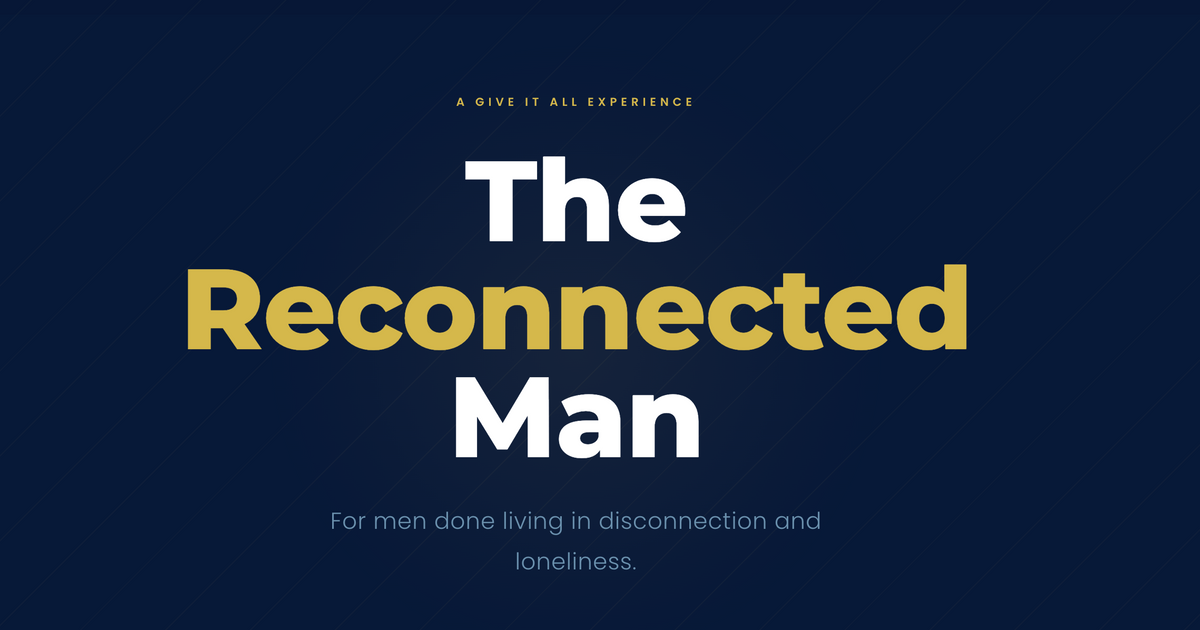
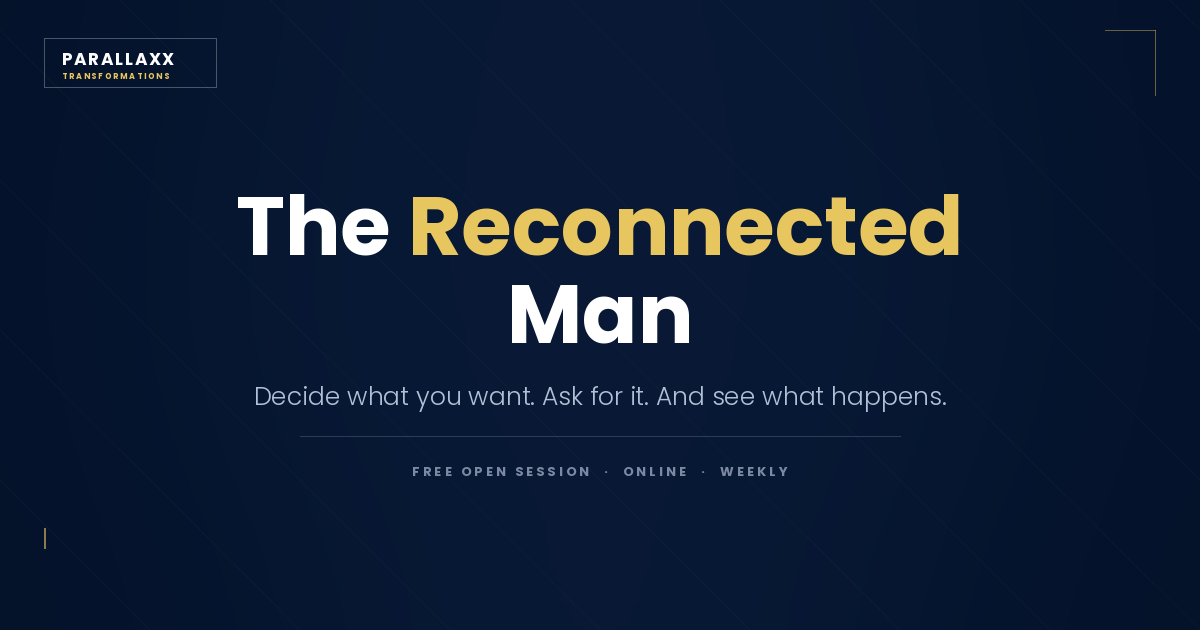
Reconnected Man share text and card, on the current page
The route still described the page it replaced. It priced the membership
at 59 euro when the page says 89, and sold weekly group containers and
deep love, true intimacy, none of which are words the page uses. Both
lines are the page's own now: the promise band and the offer for desc,
the hero sub and the VSL line for og_desc. Same method the woman's route
already uses.

The card carried A GIVE IT ALL EXPERIENCE over For men done living in
disconnection and loneliness: a badge for a brand being wound down, over
a promise the page replaced. Rebuilt from the same script as the other
door so the two read as a pair.

Also corrects a comment in the structured-data notes that still cited
59 euro a month as the figure on the page.

Claude-Session: https://claude.ai/code/session_01CvKZ3DdN5tJBLiZxtaNXuo

diff --git a/og_card_man.py b/og_card_man.py
@@ -1,0 +1,86 @@
+"""Rebuild the Reconnected Man share card on the v10 copy.
+
+The card still carried "A GIVE IT ALL EXPERIENCE" over "For men done living
+in disconnection and loneliness" — a badge for a brand being wound down, over
+a promise the page replaced. Same layout and type as the other door, so the
+two cards read as a pair, with this page's own words.
+"""
+from PIL import Image, ImageDraw, ImageFont, ImageFilter
+import math
+
+W, H = 1200, 630
+NAVY   = (4, 18, 42)
+CARD   = (10, 29, 60)
+GOLD   = (232, 198, 95)
+CREAM  = (255, 255, 255)
+MIST   = (177, 191, 215)
+SLATE  = (124, 137, 163)
+
+F = "/usr/share/fonts/truetype/google-fonts/Poppins-%s.ttf"
+def f(style, size): return ImageFont.truetype(F % style, size)
+
+# ── ground: navy with a soft lift behind the type ────────────────────────
+img = Image.new("RGB", (W, H), NAVY)
+glow = Image.new("L", (W, H), 0)
+gd = ImageDraw.Draw(glow)
+gd.ellipse((W*0.14, -H*0.30, W*0.86, H*1.16), fill=150)
+glow = glow.filter(ImageFilter.GaussianBlur(120))
+img = Image.composite(Image.new("RGB", (W, H), CARD), img, glow)
+
+d = ImageDraw.Draw(img, "RGBA")
+
+# faint diagonal streaks, as on the original
+for x in range(-H, W + H, 150):
+    d.line([(x, 0), (x + H, H)], fill=(255, 255, 255, 7), width=1)
+
+# corner marks
+d.line([(1105, 30), (1155, 30)], fill=(GOLD + (110,)), width=1)
+d.line([(1155, 30), (1155, 95)], fill=(GOLD + (110,)), width=1)
+d.line([(44, 528), (44, 548)], fill=(GOLD + (150,)), width=2)
+
+def track(draw, xy, text, font, fill, sp=0.0, anchor_centre=False):
+    """Letter-spaced text. PIL has no tracking, so step glyph by glyph."""
+    widths = [draw.textlength(c, font=font) for c in text]
+    total = sum(widths) + sp * (len(text) - 1)
+    x, y = xy
+    if anchor_centre:
+        x -= total / 2
+    for c, w in zip(text, widths):
+        draw.text((x, y), c, font=font, fill=fill)
+        x += w + sp
+    return total
+
+# ── logo block ───────────────────────────────────────────────────────────
+d.rectangle((44, 38, 216, 87), outline=(255, 255, 255, 70), width=1)
+track(d, (62, 47), "PARALLAXX", f("Bold", 17), CREAM, sp=1.6)
+track(d, (62, 70), "TRANSFORMATIONS", f("Bold", 8), GOLD, sp=1.9)
+
+# The old card carried "A GIVE IT ALL EXPERIENCE" here. The page itself never
+# mentions Give It All, so the card was claiming a badge the page does not,
+# and it is gone. Everything below shifts up to keep the stack optically
+# centred on the 630 without it.
+
+# ── title ────────────────────────────────────────────────────────────────
+big = f("Bold", 82)
+l1a, l1b = "The ", "Reconnected"
+w1 = d.textlength(l1a, font=big) + d.textlength(l1b, font=big)
+x = (W - w1) / 2
+d.text((x, 168), l1a, font=big, fill=CREAM)
+d.text((x + d.textlength(l1a, font=big), 168), l1b, font=big, fill=GOLD)
+l2 = "Man"
+d.text(((W - d.textlength(l2, font=big)) / 2, 256), l2, font=big, fill=CREAM)
+
+# ── the promise, as the page now states it ───────────────────────────────
+sub = f("Light", 25)
+sub_t = "Decide what you want. Ask for it. And see what happens."
+d.text(((W - d.textlength(sub_t, font=sub)) / 2, 378), sub_t, font=sub, fill=MIST)
+
+# ── rule ─────────────────────────────────────────────────────────────────
+d.line([(300, 436), (900, 436)], fill=(255, 255, 255, 40), width=1)
+
+# ── strip ────────────────────────────────────────────────────────────────
+track(d, (W/2, 462), "FREE OPEN SESSION  ·  ONLINE  ·  WEEKLY",
+      f("Bold", 13), SLATE, sp=3.2, anchor_centre=True)
+
+img.save("og-reconnected-man.png")
+print("written", img.size)

diff --git a/migration/build-site.py b/migration/build-site.py
@@ -115,12 +115,18 @@ ROUTES = [
         bundle="parallaxx-reconnected-man.js",
         bg="#04122A",
         title="RECONNECTED MAN | Parallaxx Transformations",
-        desc="A brotherhood for men done living in disconnection and loneliness. Join The "
-             "Reconnected Man — weekly group containers, live coaching, and real connection. "
-             "Facilitated by Daniel Lawson. €59/month.",
+        # The old text described a page that no longer exists. It priced the
+        # membership at €59 when the page says €89, and sold "weekly group
+        # containers" and "deep love, true intimacy", none of which are words
+        # the page uses. Both lines below are the page's own: the promise band
+        # and the offer for desc, the hero sub and the VSL line for og_desc.
+        desc="Decide what you want, ask for it, and see what happens. A weekly online group "
+             "of men, facilitated by Daniel Lawson. Sit in an open session free, then €89 "
+             "a month.",
         og_title="RECONNECTED MAN | Parallaxx Transformations",
-        og_desc="For men done living in disconnection and loneliness. Real connection, deep love, "
-                "true intimacy — not just with women, but in every relationship that defines you.",
+        og_desc="For men who are needed, but want more from life. Decide what you want, ask "
+                "for it, and see what happens — among brothers who hold you to a higher "
+                "standard.",
         og_img="img/og-reconnected-man.png",
     ),
     dict(
@@ -402,7 +408,7 @@ STATIC_DIRS = ["covers", "audio"]
 # markup — a manual-action risk, not a clever shortcut. If star ratings are ever
 # collected properly, that is the moment to add it.
 #
-# No `offers.price` either. The €59/month figure is on the Reconnected Man page
+# No `offers.price` either. The €89/month figure is on the Reconnected Man page
 # in prose, but Daniel is raising prices incrementally, and a published price in
 # structured data is a public commitment that is awkward to walk back. The offer
 # is declared without a figure, which is valid and honest.
